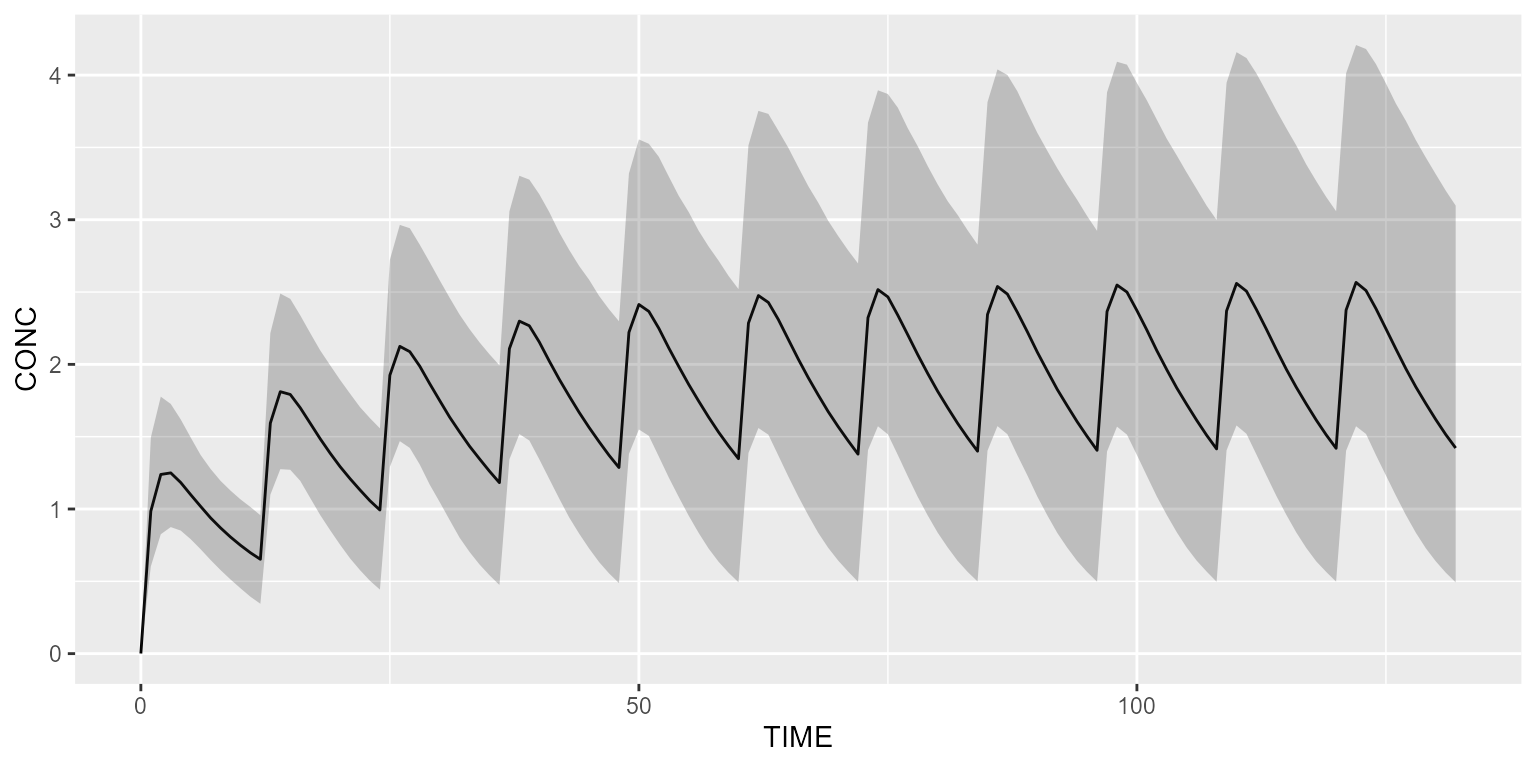
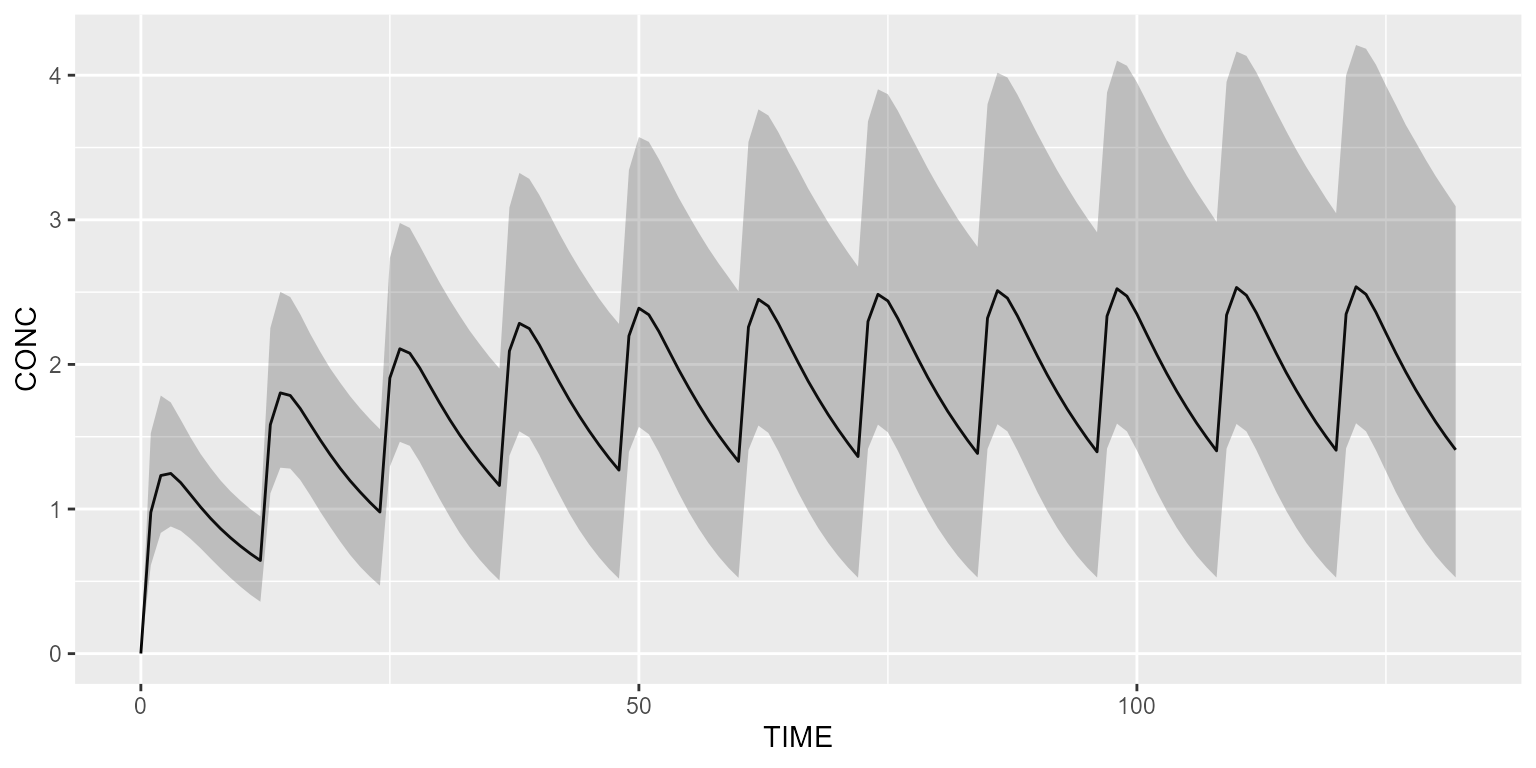
Re-execute vignette 17.

diff --git a/articles/v17_run_simulation_in_parallel.html b/articles/v17_run_simulation_in_parallel.html
@@ -114,9 +114,9 @@ for running your simulation efficiently.</p>
 <div class="sourceCode" id="cb1"><pre class="downlit sourceCode r">
 <code class="sourceCode R"><span><span class="va">model</span> <span class="op">&lt;-</span> <span class="va">model_suite</span><span class="op">$</span><span class="va">pk</span><span class="op">$</span><span class="va">`2cpt_fo_mm`</span></span>
 <span></span>
-<span><span class="va">dataset</span> <span class="op">&lt;-</span> <span class="fu"><a href="../reference/Dataset.html">Dataset</a></span><span class="op">(</span><span class="fl">100</span><span class="op">)</span> <span class="op"><a href="https://magrittr.tidyverse.org/reference/pipe.html" class="external-link">%&gt;%</a></span></span>
-<span>  <span class="fu"><a href="https://rdrr.io/pkg/campsismod/man/add.html" class="external-link">add</a></span><span class="op">(</span><span class="fu"><a href="../reference/Bolus.html">Bolus</a></span><span class="op">(</span>time<span class="op">=</span><span class="fl">0</span>, amount<span class="op">=</span><span class="fl">100</span>, ii<span class="op">=</span><span class="fl">12</span>, addl<span class="op">=</span><span class="fl">10</span><span class="op">)</span><span class="op">)</span> <span class="op"><a href="https://magrittr.tidyverse.org/reference/pipe.html" class="external-link">%&gt;%</a></span></span>
-<span>  <span class="fu"><a href="https://rdrr.io/pkg/campsismod/man/add.html" class="external-link">add</a></span><span class="op">(</span><span class="fu"><a href="../reference/Observations.html">Observations</a></span><span class="op">(</span>times<span class="op">=</span><span class="fl">0</span><span class="op">:</span><span class="op">(</span><span class="fl">11</span><span class="op">*</span><span class="fl">12</span><span class="op">)</span><span class="op">)</span><span class="op">)</span></span></code></pre></div>
+<span><span class="va">dataset</span> <span class="op">&lt;-</span> <span class="fu"><a href="../reference/Dataset.html">Dataset</a></span><span class="op">(</span><span class="fl">1000</span><span class="op">)</span> <span class="op">%&gt;%</span></span>
+<span>  <span class="fu">add</span><span class="op">(</span><span class="fu"><a href="../reference/Bolus.html">Bolus</a></span><span class="op">(</span>time<span class="op">=</span><span class="fl">0</span>, amount<span class="op">=</span><span class="fl">100</span>, ii<span class="op">=</span><span class="fl">12</span>, addl<span class="op">=</span><span class="fl">10</span><span class="op">)</span><span class="op">)</span> <span class="op">%&gt;%</span></span>
+<span>  <span class="fu">add</span><span class="op">(</span><span class="fu"><a href="../reference/Observations.html">Observations</a></span><span class="op">(</span>times<span class="op">=</span><span class="fl">0</span><span class="op">:</span><span class="op">(</span><span class="fl">11</span><span class="op">*</span><span class="fl">12</span><span class="op">)</span><span class="op">)</span><span class="op">)</span></span></code></pre></div>
 </div>
 <div class="section level3">
 <h3 id="run-replicates-in-parallel">Run replicates in parallel<a class="anchor" aria-label="anchor" href="#run-replicates-in-parallel"></a>
@@ -124,17 +124,17 @@ for running your simulation efficiently.</p>
 <p>Sequential run:</p>
 <div class="sourceCode" id="cb2"><pre class="downlit sourceCode r">
 <code class="sourceCode R"><span><span class="fu">tic</span><span class="op">(</span><span class="op">)</span></span>
-<span><span class="va">results</span> <span class="op">&lt;-</span> <span class="fu"><a href="../reference/simulate.html">simulate</a></span><span class="op">(</span>model<span class="op">=</span><span class="va">model</span>, dataset<span class="op">=</span><span class="va">dataset</span>, dest<span class="op">=</span><span class="st">"mrgsolve"</span>, seed<span class="op">=</span><span class="fl">1</span>, outfun<span class="op">=</span><span class="op">~</span><span class="fu"><a href="../reference/PI.html">PI</a></span><span class="op">(</span><span class="va">.x</span>, output<span class="op">=</span><span class="st">"CONC"</span><span class="op">)</span>, replicates<span class="op">=</span><span class="fl">10</span><span class="op">)</span></span>
+<span><span class="va">results</span> <span class="op">&lt;-</span> <span class="fu"><a href="../reference/simulate.html">simulate</a></span><span class="op">(</span>model<span class="op">=</span><span class="va">model</span>, dataset<span class="op">=</span><span class="va">dataset</span>, dest<span class="op">=</span><span class="st">"mrgsolve"</span>, seed<span class="op">=</span><span class="fl">1</span>, outfun<span class="op">=</span><span class="op">~</span><span class="fu"><a href="../reference/PI.html">PI</a></span><span class="op">(</span><span class="va">.x</span>, output<span class="op">=</span><span class="st">"CONC"</span><span class="op">)</span>, replicates<span class="op">=</span><span class="fl">100</span><span class="op">)</span></span>
 <span><span class="fu">toc</span><span class="op">(</span><span class="op">)</span></span></code></pre></div>
-<pre><code><span><span class="co">## 9.25 sec elapsed</span></span></code></pre>
+<pre><code><span><span class="co">## 128.75 sec elapsed</span></span></code></pre>
 <p>Using 6 cores:</p>
 <div class="sourceCode" id="cb4"><pre class="downlit sourceCode r">
 <code class="sourceCode R"><span><span class="va">settings</span> <span class="op">&lt;-</span> <span class="fu"><a href="../reference/Settings.html">Settings</a></span><span class="op">(</span><span class="fu"><a href="../reference/Hardware.html">Hardware</a></span><span class="op">(</span>cpu<span class="op">=</span><span class="fl">6</span>, replicate_parallel<span class="op">=</span><span class="cn">TRUE</span><span class="op">)</span><span class="op">)</span></span></code></pre></div>
 <div class="sourceCode" id="cb5"><pre class="downlit sourceCode r">
 <code class="sourceCode R"><span><span class="fu">tic</span><span class="op">(</span><span class="op">)</span></span>
-<span><span class="va">results</span> <span class="op">&lt;-</span> <span class="fu"><a href="../reference/simulate.html">simulate</a></span><span class="op">(</span>model<span class="op">=</span><span class="va">model</span>, dataset<span class="op">=</span><span class="va">dataset</span>, dest<span class="op">=</span><span class="st">"mrgsolve"</span>, seed<span class="op">=</span><span class="fl">1</span>, outfun<span class="op">=</span><span class="op">~</span><span class="fu"><a href="../reference/PI.html">PI</a></span><span class="op">(</span><span class="va">.x</span>, output<span class="op">=</span><span class="st">"CONC"</span><span class="op">)</span>, replicates<span class="op">=</span><span class="fl">10</span>, settings<span class="op">=</span><span class="va">settings</span><span class="op">)</span></span>
+<span><span class="va">results</span> <span class="op">&lt;-</span> <span class="fu"><a href="../reference/simulate.html">simulate</a></span><span class="op">(</span>model<span class="op">=</span><span class="va">model</span>, dataset<span class="op">=</span><span class="va">dataset</span>, dest<span class="op">=</span><span class="st">"mrgsolve"</span>, seed<span class="op">=</span><span class="fl">1</span>, outfun<span class="op">=</span><span class="op">~</span><span class="fu"><a href="../reference/PI.html">PI</a></span><span class="op">(</span><span class="va">.x</span>, output<span class="op">=</span><span class="st">"CONC"</span><span class="op">)</span>, replicates<span class="op">=</span><span class="fl">100</span>, settings<span class="op">=</span><span class="va">settings</span><span class="op">)</span></span>
 <span><span class="fu">toc</span><span class="op">(</span><span class="op">)</span></span></code></pre></div>
-<pre><code><span><span class="co">## 15.8 sec elapsed</span></span></code></pre>
+<pre><code><span><span class="co">## 45.15 sec elapsed</span></span></code></pre>
 <div class="sourceCode" id="cb7"><pre class="downlit sourceCode r">
 <code class="sourceCode R"><span><span class="fu"><a href="../reference/vpcPlot.html">vpcPlot</a></span><span class="op">(</span><span class="va">results</span><span class="op">)</span></span></code></pre></div>
 <p><img src="v17_run_simulation_in_parallel_files/figure-html/replicates_in_parallel-1.png" width="768" style="display: block; margin: auto;"></p>
@@ -148,22 +148,22 @@ the percentiles are very low.</p>
 <p>Instead of giving a fixed dose, let’s make the dose dynamic using a
 <code>DOSE</code> covariate:</p>
 <div class="sourceCode" id="cb8"><pre class="downlit sourceCode r">
-<code class="sourceCode R"><span><span class="va">dataset_</span> <span class="op">&lt;-</span> <span class="va">dataset</span> <span class="op"><a href="https://magrittr.tidyverse.org/reference/pipe.html" class="external-link">%&gt;%</a></span></span>
-<span>  <span class="fu"><a href="https://rdrr.io/pkg/campsismod/man/add.html" class="external-link">add</a></span><span class="op">(</span><span class="fu"><a href="../reference/Covariate.html">Covariate</a></span><span class="op">(</span><span class="st">"DOSE"</span>, <span class="fl">0</span><span class="op">)</span><span class="op">)</span> <span class="op"><a href="https://magrittr.tidyverse.org/reference/pipe.html" class="external-link">%&gt;%</a></span></span>
-<span>  <span class="fu"><a href="https://rdrr.io/pkg/campsismod/man/add.html" class="external-link">add</a></span><span class="op">(</span><span class="fu"><a href="../reference/DoseAdaptation.html">DoseAdaptation</a></span><span class="op">(</span><span class="st">"DOSE"</span><span class="op">)</span><span class="op">)</span></span></code></pre></div>
+<code class="sourceCode R"><span><span class="va">dataset_</span> <span class="op">&lt;-</span> <span class="va">dataset</span> <span class="op">%&gt;%</span></span>
+<span>  <span class="fu">add</span><span class="op">(</span><span class="fu"><a href="../reference/Covariate.html">Covariate</a></span><span class="op">(</span><span class="st">"DOSE"</span>, <span class="fl">0</span><span class="op">)</span><span class="op">)</span> <span class="op">%&gt;%</span></span>
+<span>  <span class="fu">add</span><span class="op">(</span><span class="fu"><a href="../reference/DoseAdaptation.html">DoseAdaptation</a></span><span class="op">(</span><span class="st">"DOSE"</span><span class="op">)</span><span class="op">)</span></span></code></pre></div>
 <p>Let’s create one scenario per dose to be tested:</p>
 <div class="sourceCode" id="cb9"><pre class="downlit sourceCode r">
 <code class="sourceCode R"><span><span class="va">scenarios</span> <span class="op">&lt;-</span> <span class="fu"><a href="../reference/Scenarios.html">Scenarios</a></span><span class="op">(</span><span class="op">)</span></span>
 <span><span class="kw">for</span> <span class="op">(</span><span class="va">dose</span> <span class="kw">in</span> <span class="fu"><a href="https://rdrr.io/r/base/c.html" class="external-link">c</a></span><span class="op">(</span><span class="fl">0.5</span>,<span class="fl">1</span>,<span class="fl">5</span>,<span class="fl">10</span>,<span class="fl">50</span>,<span class="fl">100</span>,<span class="fl">500</span>,<span class="fl">1000</span>,<span class="fl">5000</span>,<span class="fl">10000</span>,<span class="fl">50000</span>,<span class="fl">100000</span><span class="op">)</span><span class="op">)</span> <span class="op">{</span></span>
-<span>  <span class="va">scenarios</span> <span class="op">&lt;-</span> <span class="va">scenarios</span> <span class="op"><a href="https://magrittr.tidyverse.org/reference/pipe.html" class="external-link">%&gt;%</a></span></span>
-<span>    <span class="fu"><a href="https://rdrr.io/pkg/campsismod/man/add.html" class="external-link">add</a></span><span class="op">(</span><span class="fu"><a href="../reference/Scenario.html">Scenario</a></span><span class="op">(</span>name<span class="op">=</span><span class="fu"><a href="https://rdrr.io/r/base/paste.html" class="external-link">paste0</a></span><span class="op">(</span><span class="st">"DOSE="</span>, <span class="va">dose</span><span class="op">)</span>, dataset<span class="op">=</span><span class="va">dataset_</span> <span class="op"><a href="https://magrittr.tidyverse.org/reference/pipe.html" class="external-link">%&gt;%</a></span> <span class="fu"><a href="https://rdrr.io/pkg/campsismod/man/replace.html" class="external-link">replace</a></span><span class="op">(</span><span class="fu"><a href="../reference/Covariate.html">Covariate</a></span><span class="op">(</span><span class="st">"DOSE"</span>, <span class="va">dose</span><span class="op">)</span><span class="op">)</span><span class="op">)</span><span class="op">)</span></span>
+<span>  <span class="va">scenarios</span> <span class="op">&lt;-</span> <span class="va">scenarios</span> <span class="op">%&gt;%</span></span>
+<span>    <span class="fu">add</span><span class="op">(</span><span class="fu"><a href="../reference/Scenario.html">Scenario</a></span><span class="op">(</span>name<span class="op">=</span><span class="fu"><a href="https://rdrr.io/r/base/paste.html" class="external-link">paste0</a></span><span class="op">(</span><span class="st">"DOSE="</span>, <span class="va">dose</span><span class="op">)</span>, dataset<span class="op">=</span><span class="va">dataset_</span> <span class="op">%&gt;%</span> <span class="fu"><a href="https://rdrr.io/r/base/replace.html" class="external-link">replace</a></span><span class="op">(</span><span class="fu"><a href="../reference/Covariate.html">Covariate</a></span><span class="op">(</span><span class="st">"DOSE"</span>, <span class="va">dose</span><span class="op">)</span><span class="op">)</span><span class="op">)</span><span class="op">)</span></span>
 <span><span class="op">}</span></span></code></pre></div>
 <p>Sequential run:</p>
 <div class="sourceCode" id="cb10"><pre class="downlit sourceCode r">
 <code class="sourceCode R"><span><span class="fu">tic</span><span class="op">(</span><span class="op">)</span></span>
 <span><span class="va">results</span> <span class="op">&lt;-</span> <span class="fu"><a href="../reference/simulate.html">simulate</a></span><span class="op">(</span>model<span class="op">=</span><span class="va">model</span>, dataset<span class="op">=</span><span class="va">dataset_</span>, dest<span class="op">=</span><span class="st">"mrgsolve"</span>, seed<span class="op">=</span><span class="fl">1</span>, scenarios<span class="op">=</span><span class="va">scenarios</span><span class="op">)</span></span>
 <span><span class="fu">toc</span><span class="op">(</span><span class="op">)</span></span></code></pre></div>
-<pre><code><span><span class="co">## 8.59 sec elapsed</span></span></code></pre>
+<pre><code><span><span class="co">## 17.16 sec elapsed</span></span></code></pre>
 <p>Using 6 cores (plan is auto-setup):</p>
 <div class="sourceCode" id="cb12"><pre class="downlit sourceCode r">
 <code class="sourceCode R"><span><span class="va">settings</span> <span class="op">&lt;-</span> <span class="fu"><a href="../reference/Settings.html">Settings</a></span><span class="op">(</span><span class="fu"><a href="../reference/Hardware.html">Hardware</a></span><span class="op">(</span>cpu<span class="op">=</span><span class="fl">6</span>, scenario_parallel<span class="op">=</span><span class="cn">TRUE</span><span class="op">)</span><span class="op">)</span></span></code></pre></div>
@@ -171,7 +171,7 @@ the percentiles are very low.</p>
 <code class="sourceCode R"><span><span class="fu">tic</span><span class="op">(</span><span class="op">)</span></span>
 <span><span class="va">results</span> <span class="op">&lt;-</span> <span class="fu"><a href="../reference/simulate.html">simulate</a></span><span class="op">(</span>model<span class="op">=</span><span class="va">model</span>, dataset<span class="op">=</span><span class="va">dataset_</span>, dest<span class="op">=</span><span class="st">"mrgsolve"</span>, seed<span class="op">=</span><span class="fl">1</span>, scenarios<span class="op">=</span><span class="va">scenarios</span>, settings<span class="op">=</span><span class="va">settings</span><span class="op">)</span></span>
 <span><span class="fu">toc</span><span class="op">(</span><span class="op">)</span></span></code></pre></div>
-<pre><code><span><span class="co">## 14.92 sec elapsed</span></span></code></pre>
+<pre><code><span><span class="co">## 17.78 sec elapsed</span></span></code></pre>
 <p>Using 6 cores (plan already setup from last execution):</p>
 <div class="sourceCode" id="cb15"><pre class="downlit sourceCode r">
 <code class="sourceCode R"><span><span class="va">settings</span> <span class="op">&lt;-</span> <span class="fu"><a href="../reference/Settings.html">Settings</a></span><span class="op">(</span><span class="fu"><a href="../reference/Hardware.html">Hardware</a></span><span class="op">(</span>cpu<span class="op">=</span><span class="fl">6</span>, scenario_parallel<span class="op">=</span><span class="cn">TRUE</span>, auto_setup_plan<span class="op">=</span><span class="cn">FALSE</span><span class="op">)</span><span class="op">)</span></span></code></pre></div>
@@ -179,15 +179,15 @@ the percentiles are very low.</p>
 <code class="sourceCode R"><span><span class="fu">tic</span><span class="op">(</span><span class="op">)</span></span>
 <span><span class="va">results</span> <span class="op">&lt;-</span> <span class="fu"><a href="../reference/simulate.html">simulate</a></span><span class="op">(</span>model<span class="op">=</span><span class="va">model</span>, dataset<span class="op">=</span><span class="va">dataset_</span>, dest<span class="op">=</span><span class="st">"mrgsolve"</span>, seed<span class="op">=</span><span class="fl">1</span>, scenarios<span class="op">=</span><span class="va">scenarios</span>, settings<span class="op">=</span><span class="va">settings</span><span class="op">)</span></span>
 <span><span class="fu">toc</span><span class="op">(</span><span class="op">)</span></span></code></pre></div>
-<pre><code><span><span class="co">## 1.84 sec elapsed</span></span></code></pre>
+<pre><code><span><span class="co">## 4.31 sec elapsed</span></span></code></pre>
 <p>Plot results:</p>
 <div class="sourceCode" id="cb18"><pre class="downlit sourceCode r">
 <code class="sourceCode R"><span><span class="co"># Re-arrange scenarios by natural order</span></span>
-<span><span class="va">results</span> <span class="op">&lt;-</span> <span class="va">results</span> <span class="op"><a href="https://magrittr.tidyverse.org/reference/pipe.html" class="external-link">%&gt;%</a></span> <span class="fu">mutate</span><span class="op">(</span>SCENARIO<span class="op">=</span><span class="fu"><a href="https://rdrr.io/r/base/factor.html" class="external-link">factor</a></span><span class="op">(</span><span class="va">SCENARIO</span>, levels<span class="op">=</span><span class="fu"><a href="https://rdrr.io/r/base/unique.html" class="external-link">unique</a></span><span class="op">(</span><span class="va">SCENARIO</span><span class="op">)</span><span class="op">)</span><span class="op">)</span></span>
+<span><span class="va">results</span> <span class="op">&lt;-</span> <span class="va">results</span> <span class="op">%&gt;%</span> <span class="fu">mutate</span><span class="op">(</span>SCENARIO<span class="op">=</span><span class="fu"><a href="https://rdrr.io/r/base/factor.html" class="external-link">factor</a></span><span class="op">(</span><span class="va">SCENARIO</span>, levels<span class="op">=</span><span class="fu"><a href="https://rdrr.io/r/base/unique.html" class="external-link">unique</a></span><span class="op">(</span><span class="va">SCENARIO</span><span class="op">)</span><span class="op">)</span><span class="op">)</span></span>
 <span></span>
 <span><span class="fu"><a href="../reference/shadedPlot.html">shadedPlot</a></span><span class="op">(</span><span class="va">results</span>, <span class="st">"CONC"</span>, <span class="st">"SCENARIO"</span><span class="op">)</span> <span class="op">+</span></span>
-<span>  <span class="fu"><a href="https://ggplot2.tidyverse.org/reference/facet_wrap.html" class="external-link">facet_wrap</a></span><span class="op">(</span><span class="op">~</span><span class="va">SCENARIO</span>, ncol<span class="op">=</span><span class="fl">4</span>, scales<span class="op">=</span><span class="st">"free_y"</span><span class="op">)</span> <span class="op">+</span></span>
-<span>  <span class="fu"><a href="https://ggplot2.tidyverse.org/reference/guides.html" class="external-link">guides</a></span><span class="op">(</span>colour<span class="op">=</span><span class="st">"none"</span>, fill<span class="op">=</span><span class="st">"none"</span><span class="op">)</span></span></code></pre></div>
+<span>  <span class="fu">facet_wrap</span><span class="op">(</span><span class="op">~</span><span class="va">SCENARIO</span>, ncol<span class="op">=</span><span class="fl">4</span>, scales<span class="op">=</span><span class="st">"free_y"</span><span class="op">)</span> <span class="op">+</span></span>
+<span>  <span class="fu">guides</span><span class="op">(</span>colour<span class="op">=</span><span class="st">"none"</span>, fill<span class="op">=</span><span class="st">"none"</span><span class="op">)</span></span></code></pre></div>
 <p><img src="v17_run_simulation_in_parallel_files/figure-html/scenarios_in_parallel-1.png" width="768" style="display: block; margin: auto;"></p>
 </div>
 <div class="section level3">
@@ -198,19 +198,19 @@ and/or the dataset is complex, it may be interesting to export the
 dataset in parallel. Let’s illustrate this feature using a dataset that
 contains a lot of subjects and treatment IOV (which is costly).</p>
 <div class="sourceCode" id="cb19"><pre class="downlit sourceCode r">
-<code class="sourceCode R"><span><span class="va">dataset_</span> <span class="op">&lt;-</span> <span class="va">dataset</span> <span class="op"><a href="https://magrittr.tidyverse.org/reference/pipe.html" class="external-link">%&gt;%</a></span></span>
-<span>  <span class="fu"><a href="../reference/setSubjects.html">setSubjects</a></span><span class="op">(</span><span class="fl">4000</span><span class="op">)</span> <span class="op"><a href="https://magrittr.tidyverse.org/reference/pipe.html" class="external-link">%&gt;%</a></span></span>
-<span>  <span class="fu"><a href="https://rdrr.io/pkg/campsismod/man/add.html" class="external-link">add</a></span><span class="op">(</span><span class="fu"><a href="../reference/IOV.html">IOV</a></span><span class="op">(</span><span class="st">"IOV_KA"</span>, distribution<span class="op">=</span><span class="fu"><a href="../reference/NormalDistribution.html">NormalDistribution</a></span><span class="op">(</span>mean<span class="op">=</span><span class="fl">0</span>, sd<span class="op">=</span><span class="fl">0.1</span><span class="op">)</span><span class="op">)</span><span class="op">)</span> <span class="co"># This step is costly</span></span></code></pre></div>
+<code class="sourceCode R"><span><span class="va">dataset_</span> <span class="op">&lt;-</span> <span class="va">dataset</span> <span class="op">%&gt;%</span></span>
+<span>  <span class="fu"><a href="../reference/setSubjects.html">setSubjects</a></span><span class="op">(</span><span class="fl">24000</span><span class="op">)</span> <span class="op">%&gt;%</span></span>
+<span>  <span class="fu">add</span><span class="op">(</span><span class="fu"><a href="../reference/IOV.html">IOV</a></span><span class="op">(</span><span class="st">"IOV_KA"</span>, distribution<span class="op">=</span><span class="fu"><a href="../reference/NormalDistribution.html">NormalDistribution</a></span><span class="op">(</span>mean<span class="op">=</span><span class="fl">0</span>, sd<span class="op">=</span><span class="fl">0.1</span><span class="op">)</span><span class="op">)</span><span class="op">)</span> <span class="co"># This step is costly</span></span></code></pre></div>
 <div class="sourceCode" id="cb20"><pre class="downlit sourceCode r">
-<code class="sourceCode R"><span><span class="va">model_</span> <span class="op">&lt;-</span> <span class="va">model</span> <span class="op"><a href="https://magrittr.tidyverse.org/reference/pipe.html" class="external-link">%&gt;%</a></span></span>
-<span>  <span class="fu"><a href="https://rdrr.io/pkg/campsismod/man/replaceAll.html" class="external-link">replaceAll</a></span><span class="op">(</span><span class="st">"ETA_KA"</span>, <span class="st">"ETA_KA + IOV_KA"</span><span class="op">)</span></span></code></pre></div>
+<code class="sourceCode R"><span><span class="va">model_</span> <span class="op">&lt;-</span> <span class="va">model</span> <span class="op">%&gt;%</span></span>
+<span>  <span class="fu">replaceAll</span><span class="op">(</span><span class="st">"ETA_KA"</span>, <span class="st">"ETA_KA + IOV_KA"</span><span class="op">)</span></span></code></pre></div>
 <p>Sequential run:</p>
 <div class="sourceCode" id="cb21"><pre class="downlit sourceCode r">
 <code class="sourceCode R"><span><span class="fu">tic</span><span class="op">(</span><span class="op">)</span></span>
 <span><span class="va">settings</span> <span class="op">&lt;-</span> <span class="fu"><a href="../reference/Settings.html">Settings</a></span><span class="op">(</span><span class="fu"><a href="../reference/Hardware.html">Hardware</a></span><span class="op">(</span>slice_size<span class="op">=</span><span class="fl">4000</span><span class="op">)</span><span class="op">)</span></span>
 <span><span class="va">results</span> <span class="op">&lt;-</span> <span class="fu"><a href="../reference/simulate.html">simulate</a></span><span class="op">(</span>model<span class="op">=</span><span class="va">model_</span>, dataset<span class="op">=</span><span class="va">dataset_</span>, dest<span class="op">=</span><span class="st">"mrgsolve"</span>, seed<span class="op">=</span><span class="fl">1</span>, settings<span class="op">=</span><span class="va">settings</span><span class="op">)</span></span>
 <span><span class="fu">toc</span><span class="op">(</span><span class="op">)</span></span></code></pre></div>
-<pre><code><span><span class="co">## 12.17 sec elapsed</span></span></code></pre>
+<pre><code><span><span class="co">## 36.89 sec elapsed</span></span></code></pre>
 <p>Using 6 cores (plan is auto-setup):</p>
 <div class="sourceCode" id="cb23"><pre class="downlit sourceCode r">
 <code class="sourceCode R"><span><span class="va">settings</span> <span class="op">&lt;-</span> <span class="fu"><a href="../reference/Settings.html">Settings</a></span><span class="op">(</span><span class="fu"><a href="../reference/Hardware.html">Hardware</a></span><span class="op">(</span>cpu<span class="op">=</span><span class="fl">6</span>, dataset_parallel<span class="op">=</span><span class="cn">TRUE</span>, dataset_slice_size<span class="op">=</span><span class="fl">4000</span>, slice_size<span class="op">=</span><span class="fl">4000</span><span class="op">)</span><span class="op">)</span></span></code></pre></div>
@@ -218,7 +218,7 @@ contains a lot of subjects and treatment IOV (which is costly).</p>
 <code class="sourceCode R"><span><span class="fu">tic</span><span class="op">(</span><span class="op">)</span></span>
 <span><span class="va">results</span> <span class="op">&lt;-</span> <span class="fu"><a href="../reference/simulate.html">simulate</a></span><span class="op">(</span>model<span class="op">=</span><span class="va">model_</span>, dataset<span class="op">=</span><span class="va">dataset_</span>, dest<span class="op">=</span><span class="st">"mrgsolve"</span>, seed<span class="op">=</span><span class="fl">1</span>, settings<span class="op">=</span><span class="va">settings</span><span class="op">)</span></span>
 <span><span class="fu">toc</span><span class="op">(</span><span class="op">)</span></span></code></pre></div>
-<pre><code><span><span class="co">## 14.05 sec elapsed</span></span></code></pre>
+<pre><code><span><span class="co">## 34.79 sec elapsed</span></span></code></pre>
 <p>Using 6 cores (plan already setup from last execution):</p>
 <div class="sourceCode" id="cb26"><pre class="downlit sourceCode r">
 <code class="sourceCode R"><span><span class="va">settings</span> <span class="op">&lt;-</span> <span class="fu"><a href="../reference/Settings.html">Settings</a></span><span class="op">(</span><span class="fu"><a href="../reference/Hardware.html">Hardware</a></span><span class="op">(</span>cpu<span class="op">=</span><span class="fl">6</span>, dataset_parallel<span class="op">=</span><span class="cn">TRUE</span>, dataset_slice_size<span class="op">=</span><span class="fl">4000</span>, slice_size<span class="op">=</span><span class="fl">4000</span>, auto_setup_plan<span class="op">=</span><span class="cn">FALSE</span><span class="op">)</span><span class="op">)</span></span></code></pre></div>
@@ -226,7 +226,7 @@ contains a lot of subjects and treatment IOV (which is costly).</p>
 <code class="sourceCode R"><span><span class="fu">tic</span><span class="op">(</span><span class="op">)</span></span>
 <span><span class="va">results</span> <span class="op">&lt;-</span> <span class="fu"><a href="../reference/simulate.html">simulate</a></span><span class="op">(</span>model<span class="op">=</span><span class="va">model_</span>, dataset<span class="op">=</span><span class="va">dataset_</span>, dest<span class="op">=</span><span class="st">"mrgsolve"</span>, seed<span class="op">=</span><span class="fl">1</span>, settings<span class="op">=</span><span class="va">settings</span><span class="op">)</span></span>
 <span><span class="fu">toc</span><span class="op">(</span><span class="op">)</span></span></code></pre></div>
-<pre><code><span><span class="co">## 6.86 sec elapsed</span></span></code></pre>
+<pre><code><span><span class="co">## 22.55 sec elapsed</span></span></code></pre>
 <p>Plot results:</p>
 <div class="sourceCode" id="cb29"><pre class="downlit sourceCode r">
 <code class="sourceCode R"><span><span class="fu"><a href="../reference/shadedPlot.html">shadedPlot</a></span><span class="op">(</span><span class="va">results</span>, <span class="st">"CONC"</span><span class="op">)</span></span></code></pre></div>
@@ -239,21 +239,21 @@ contains a lot of subjects and treatment IOV (which is costly).</p>
 time per individual is high (e.g. long simulation). To illustrate this
 topic, let’s dose and observe a drug over a 6-month period.</p>
 <div class="sourceCode" id="cb30"><pre class="downlit sourceCode r">
-<code class="sourceCode R"><span><span class="va">dataset_</span> <span class="op">&lt;-</span> <span class="fu"><a href="../reference/Dataset.html">Dataset</a></span><span class="op">(</span><span class="fl">10</span><span class="op">)</span> <span class="op"><a href="https://magrittr.tidyverse.org/reference/pipe.html" class="external-link">%&gt;%</a></span></span>
-<span>  <span class="fu"><a href="https://rdrr.io/pkg/campsismod/man/add.html" class="external-link">add</a></span><span class="op">(</span><span class="fu"><a href="../reference/Bolus.html">Bolus</a></span><span class="op">(</span>time<span class="op">=</span><span class="fl">0</span>, amount<span class="op">=</span><span class="fl">100</span>, ii<span class="op">=</span><span class="fl">12</span>, addl<span class="op">=</span><span class="fl">364</span><span class="op">)</span><span class="op">)</span> <span class="op"><a href="https://magrittr.tidyverse.org/reference/pipe.html" class="external-link">%&gt;%</a></span></span>
-<span>  <span class="fu"><a href="https://rdrr.io/pkg/campsismod/man/add.html" class="external-link">add</a></span><span class="op">(</span><span class="fu"><a href="../reference/Observations.html">Observations</a></span><span class="op">(</span>times<span class="op">=</span><span class="fl">0</span><span class="op">:</span><span class="op">(</span><span class="fl">365</span><span class="op">*</span><span class="fl">12</span><span class="op">)</span><span class="op">)</span><span class="op">)</span></span></code></pre></div>
+<code class="sourceCode R"><span><span class="va">dataset_</span> <span class="op">&lt;-</span> <span class="fu"><a href="../reference/Dataset.html">Dataset</a></span><span class="op">(</span><span class="fl">200</span><span class="op">)</span> <span class="op">%&gt;%</span></span>
+<span>  <span class="fu">add</span><span class="op">(</span><span class="fu"><a href="../reference/Bolus.html">Bolus</a></span><span class="op">(</span>time<span class="op">=</span><span class="fl">0</span>, amount<span class="op">=</span><span class="fl">100</span>, ii<span class="op">=</span><span class="fl">12</span>, addl<span class="op">=</span><span class="fl">364</span><span class="op">)</span><span class="op">)</span> <span class="op">%&gt;%</span></span>
+<span>  <span class="fu">add</span><span class="op">(</span><span class="fu"><a href="../reference/Observations.html">Observations</a></span><span class="op">(</span>times<span class="op">=</span><span class="fl">0</span><span class="op">:</span><span class="op">(</span><span class="fl">365</span><span class="op">*</span><span class="fl">12</span><span class="op">)</span><span class="op">)</span><span class="op">)</span></span></code></pre></div>
 <p>Sequential run (<code>rxode2</code>) :</p>
 <div class="sourceCode" id="cb31"><pre class="downlit sourceCode r">
 <code class="sourceCode R"><span><span class="fu">tic</span><span class="op">(</span><span class="op">)</span></span>
 <span><span class="va">results</span> <span class="op">&lt;-</span> <span class="fu"><a href="../reference/simulate.html">simulate</a></span><span class="op">(</span>model<span class="op">=</span><span class="va">model</span>, dataset<span class="op">=</span><span class="va">dataset_</span>, dest<span class="op">=</span><span class="st">"rxode2"</span>, seed<span class="op">=</span><span class="fl">1</span><span class="op">)</span></span>
 <span><span class="fu">toc</span><span class="op">(</span><span class="op">)</span></span></code></pre></div>
-<pre><code><span><span class="co">## 13.47 sec elapsed</span></span></code></pre>
+<pre><code><span><span class="co">## 210.16 sec elapsed</span></span></code></pre>
 <p>Sequential run (<code>mrgsolve</code>) :</p>
 <div class="sourceCode" id="cb33"><pre class="downlit sourceCode r">
 <code class="sourceCode R"><span><span class="fu">tic</span><span class="op">(</span><span class="op">)</span></span>
 <span><span class="va">results</span> <span class="op">&lt;-</span> <span class="fu"><a href="../reference/simulate.html">simulate</a></span><span class="op">(</span>model<span class="op">=</span><span class="va">model</span>, dataset<span class="op">=</span><span class="va">dataset_</span>, dest<span class="op">=</span><span class="st">"mrgsolve"</span>, seed<span class="op">=</span><span class="fl">1</span><span class="op">)</span></span>
 <span><span class="fu">toc</span><span class="op">(</span><span class="op">)</span></span></code></pre></div>
-<pre><code><span><span class="co">## 1.7 sec elapsed</span></span></code></pre>
+<pre><code><span><span class="co">## 6.1 sec elapsed</span></span></code></pre>
 <p>Using 6 cores (<code>rxode2</code>, plan is auto-setup):</p>
 <div class="sourceCode" id="cb35"><pre class="downlit sourceCode r">
 <code class="sourceCode R"><span><span class="va">settings</span> <span class="op">&lt;-</span> <span class="fu"><a href="../reference/Settings.html">Settings</a></span><span class="op">(</span><span class="fu"><a href="../reference/Hardware.html">Hardware</a></span><span class="op">(</span>cpu<span class="op">=</span><span class="fl">6</span>, slice_parallel<span class="op">=</span><span class="cn">TRUE</span><span class="op">)</span><span class="op">)</span></span></code></pre></div>
@@ -261,7 +261,7 @@ topic, let’s dose and observe a drug over a 6-month period.</p>
 <code class="sourceCode R"><span><span class="fu">tic</span><span class="op">(</span><span class="op">)</span></span>
 <span><span class="va">results</span> <span class="op">&lt;-</span> <span class="fu"><a href="../reference/simulate.html">simulate</a></span><span class="op">(</span>model<span class="op">=</span><span class="va">model</span>, dataset<span class="op">=</span><span class="va">dataset_</span>, dest<span class="op">=</span><span class="st">"rxode2"</span>, seed<span class="op">=</span><span class="fl">1</span>, settings<span class="op">=</span><span class="va">settings</span><span class="op">)</span></span>
 <span><span class="fu">toc</span><span class="op">(</span><span class="op">)</span></span></code></pre></div>
-<pre><code><span><span class="co">## 12.09 sec elapsed</span></span></code></pre>
+<pre><code><span><span class="co">## 63.01 sec elapsed</span></span></code></pre>
 <p>Using 6 cores (<code>mrgsolve</code>, plan is auto-setup):</p>
 <div class="sourceCode" id="cb38"><pre class="downlit sourceCode r">
 <code class="sourceCode R"><span><span class="va">settings</span> <span class="op">&lt;-</span> <span class="fu"><a href="../reference/Settings.html">Settings</a></span><span class="op">(</span><span class="fu"><a href="../reference/Hardware.html">Hardware</a></span><span class="op">(</span>cpu<span class="op">=</span><span class="fl">6</span>, slice_parallel<span class="op">=</span><span class="cn">TRUE</span><span class="op">)</span><span class="op">)</span></span></code></pre></div>
@@ -269,7 +269,7 @@ topic, let’s dose and observe a drug over a 6-month period.</p>
 <code class="sourceCode R"><span><span class="fu">tic</span><span class="op">(</span><span class="op">)</span></span>
 <span><span class="va">results</span> <span class="op">&lt;-</span> <span class="fu"><a href="../reference/simulate.html">simulate</a></span><span class="op">(</span>model<span class="op">=</span><span class="va">model</span>, dataset<span class="op">=</span><span class="va">dataset_</span>, dest<span class="op">=</span><span class="st">"mrgsolve"</span>, seed<span class="op">=</span><span class="fl">1</span>, settings<span class="op">=</span><span class="va">settings</span><span class="op">)</span></span>
 <span><span class="fu">toc</span><span class="op">(</span><span class="op">)</span></span></code></pre></div>
-<pre><code><span><span class="co">## 3.7 sec elapsed</span></span></code></pre>
+<pre><code><span><span class="co">## 8.55 sec elapsed</span></span></code></pre>
 <p>Please note that the default slice size for <code>mrgsolve</code> is
 500, which means that only 1 core was used in the previous example. For
 <code>rxode2</code>, which works with a much smaller slice size of 6
